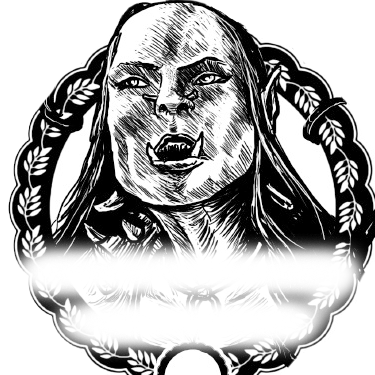
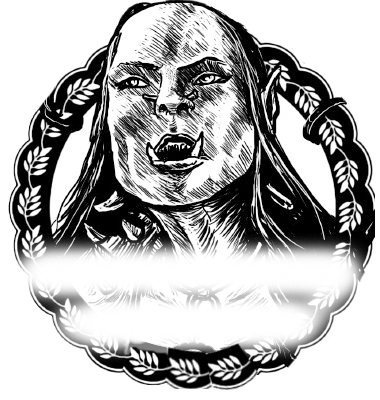
Kriegerin als Button

diff --git a/Source/src/view/stylesheets/MainMenu.css b/Source/src/view/stylesheets/MainMenu.css
@@ -43,10 +43,11 @@
 
 
 .button-kampf	{
-	-fx-font-size: 30px;
-	-fx-padding: 110 0 0 0;
-	-fx-background-position: 30% 10%;
-    -fx-background-image: url('/img/Hauptmenu_rund/kaempfer_rund_v1.png');   
+	-fx-font-size: 1.15em;
+	-fx-padding: 79.0px 0.0px 0.0px 0.0px; 
+	-fx-background-position: 50% 0%;
+    -fx-background-size: 95%;
+    -fx-background-image: url('/img/Kriegerin_2.png');   
 }
 
 
